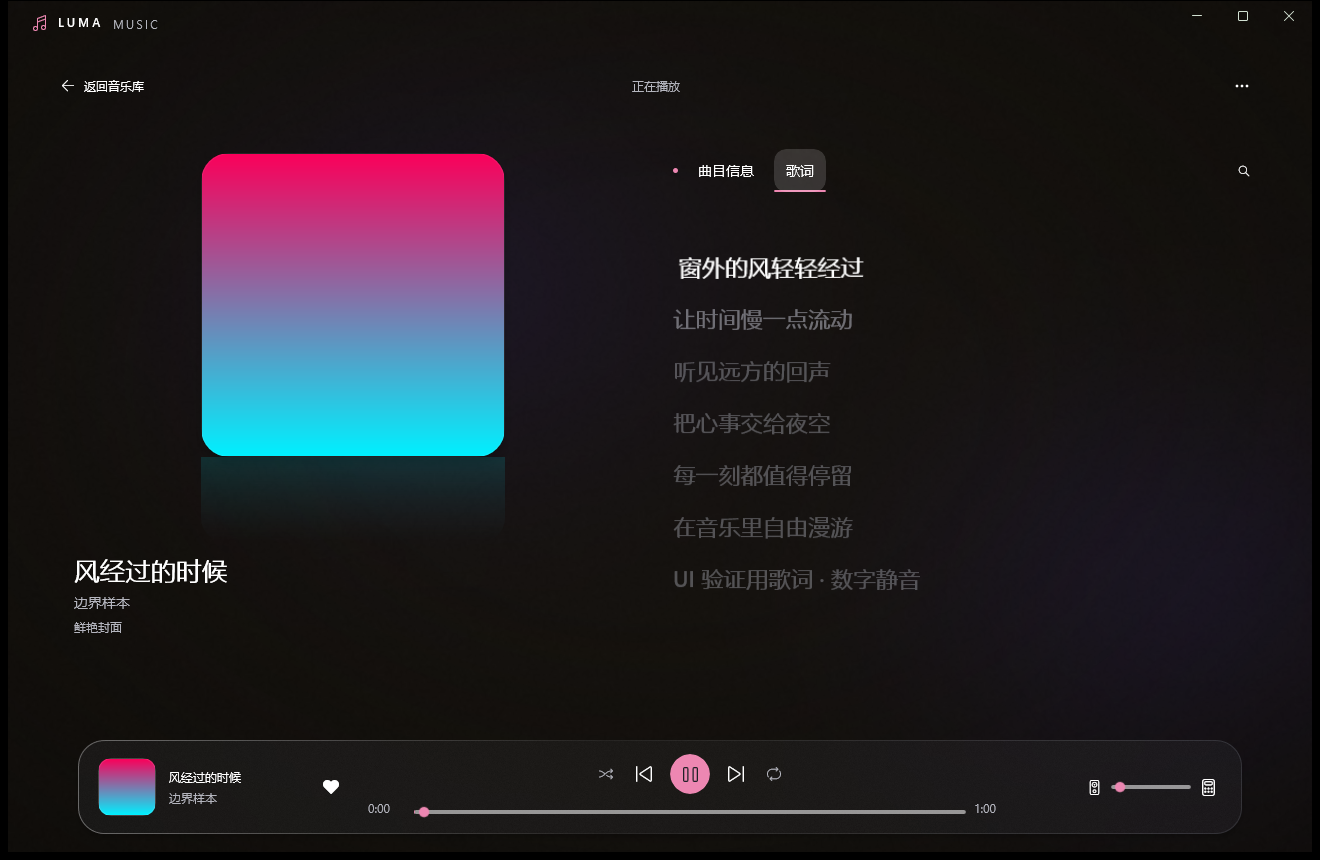
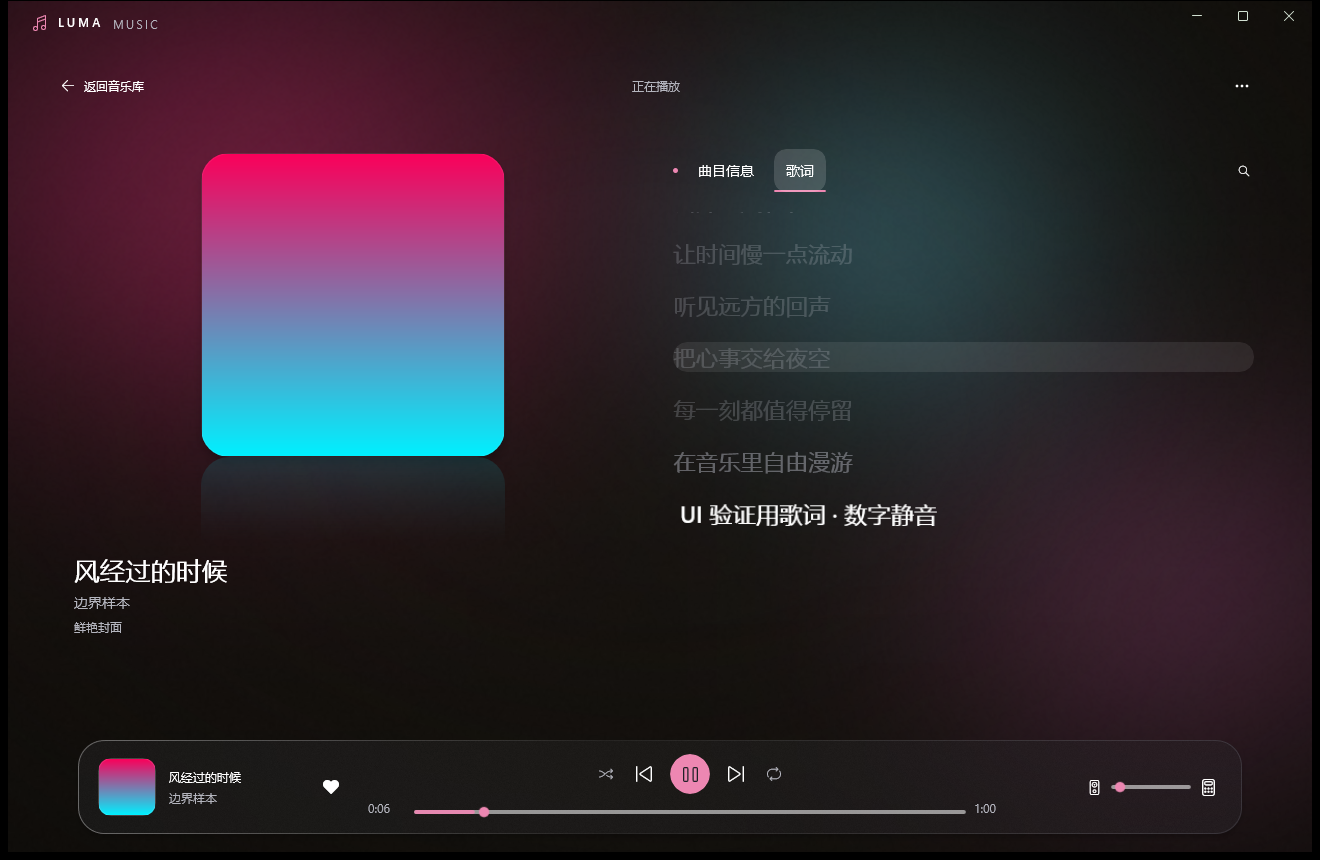
发布 v1.1.6：升级应用版本号

diff --git a/tests/UiRegression.cs b/tests/UiRegression.cs
@@ -40,7 +40,11 @@ public sealed partial class MainWindow
             for (int i = 0; i < 400 && !ready; i++) await Task.Delay(50);
             prefs.Theme = 1; ApplyTheme();
             prefs.VisualQuality = 2; prefs.Aurora = true; prefs.ReducedTransparency = false; prefs.ReducedMotion = false; prefs.Online = false;
-            RefreshAppearance(); AppWindow.Resize(new(1600, 950)); await Settle(1200);
+            // README 预览图要按原尺寸出图，所以窗口大小可以用 LUMA_PREVIEW_SIZE=1320x860 覆盖。
+            var size = (1600, 950);
+            if (Environment.GetEnvironmentVariable("LUMA_PREVIEW_SIZE")?.Split('x') is [var rawWidth, var rawHeight]
+                && int.TryParse(rawWidth, out var width) && int.TryParse(rawHeight, out var height)) size = (width, height);
+            RefreshAppearance(); AppWindow.Resize(new(size.Item1, size.Item2)); await Settle(1200);
             Library_Click(this, new()); await Settle(1200);
             await Stage("library");
             // 白封面取色最亮，是对比度最差的一档；歌词与信息面板各拍一张，面板切换另有入场动画要等。
